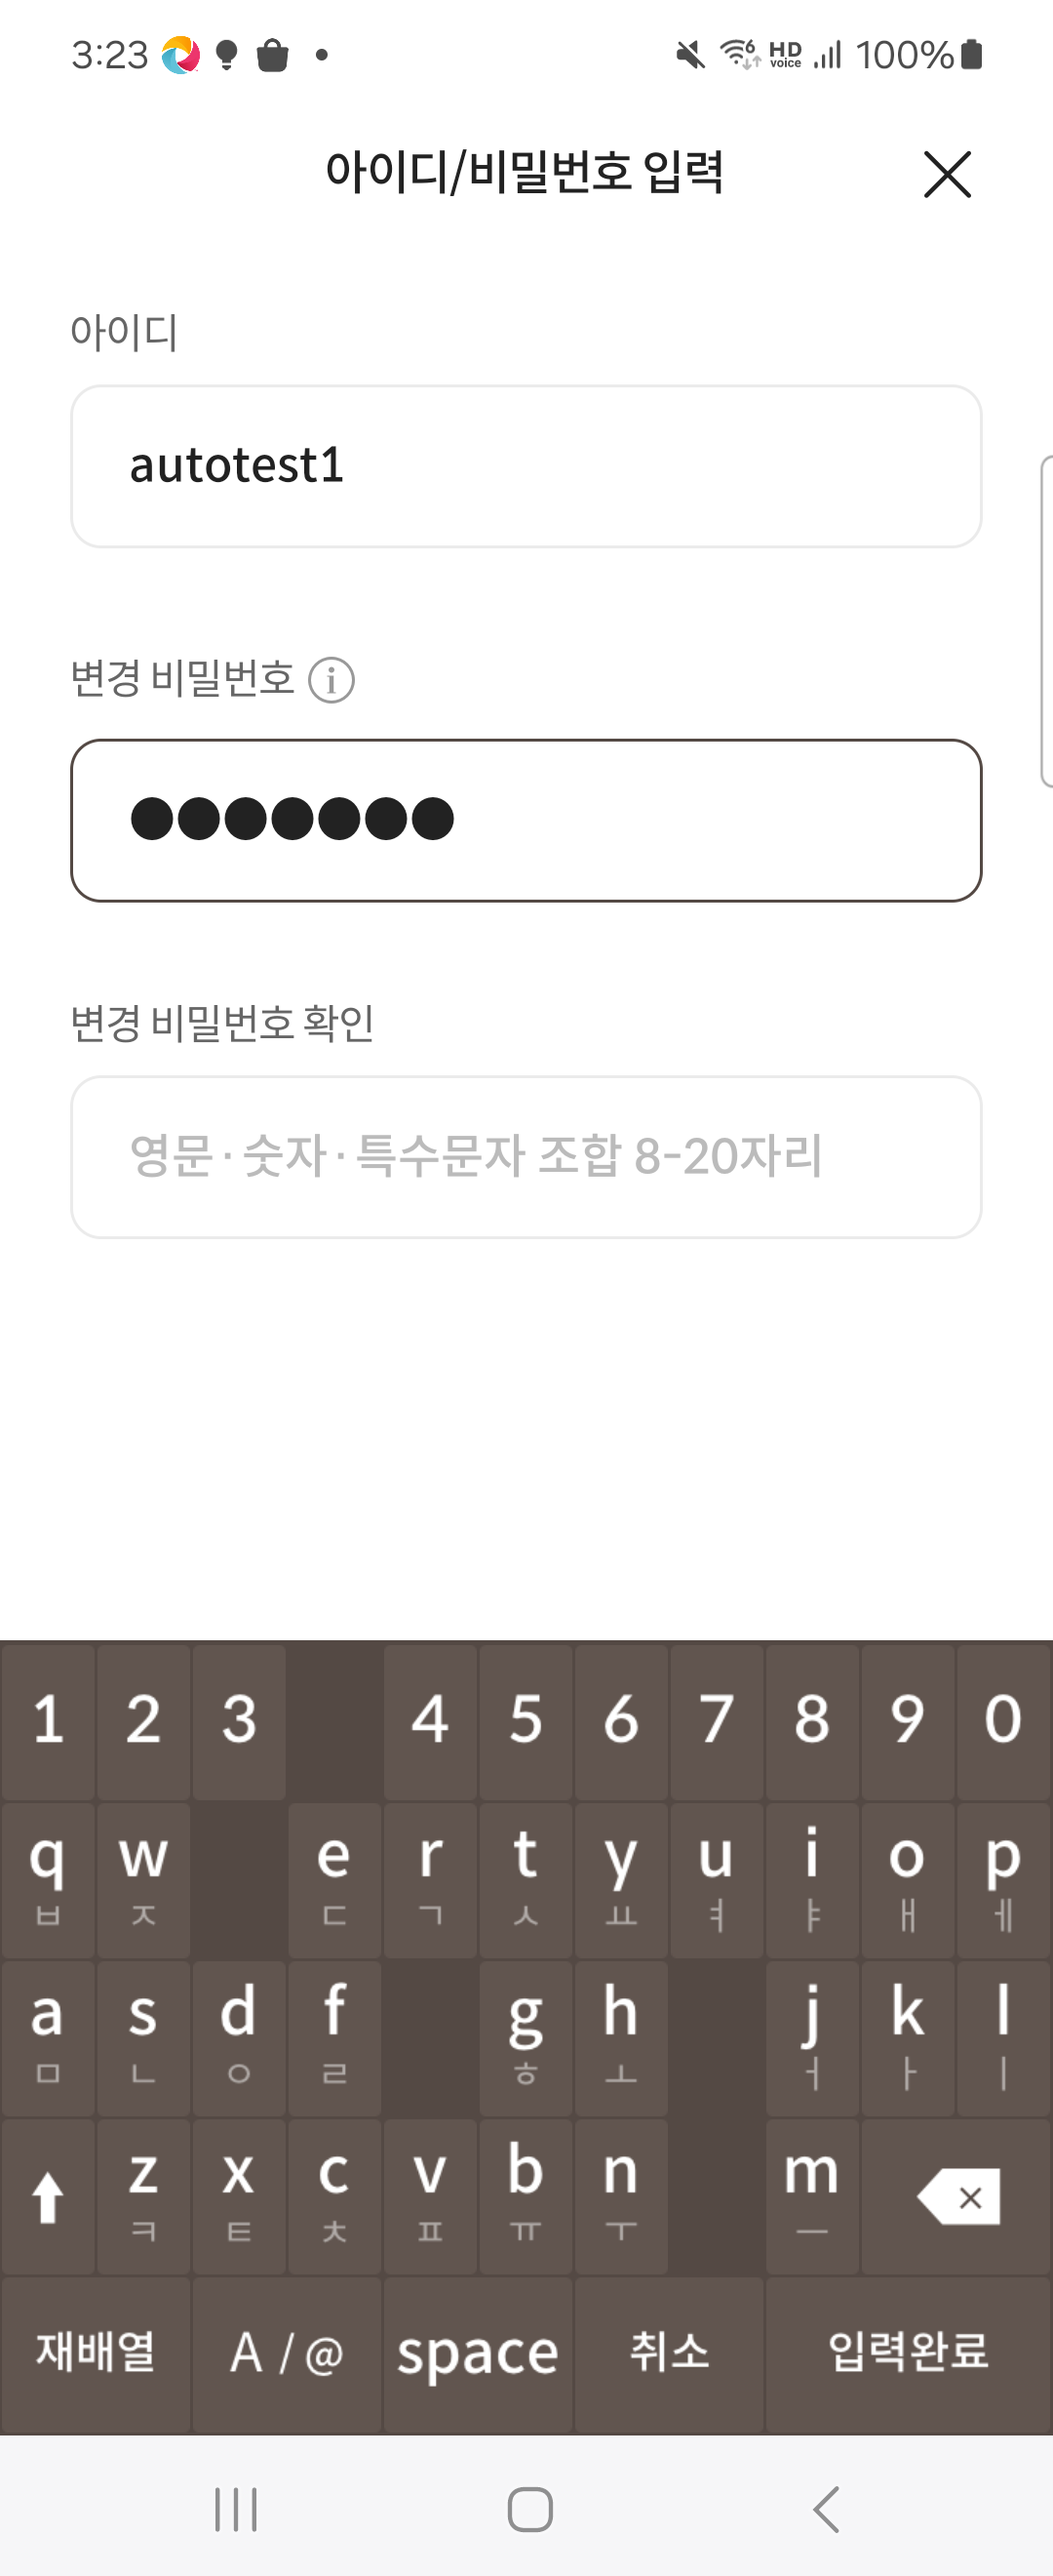
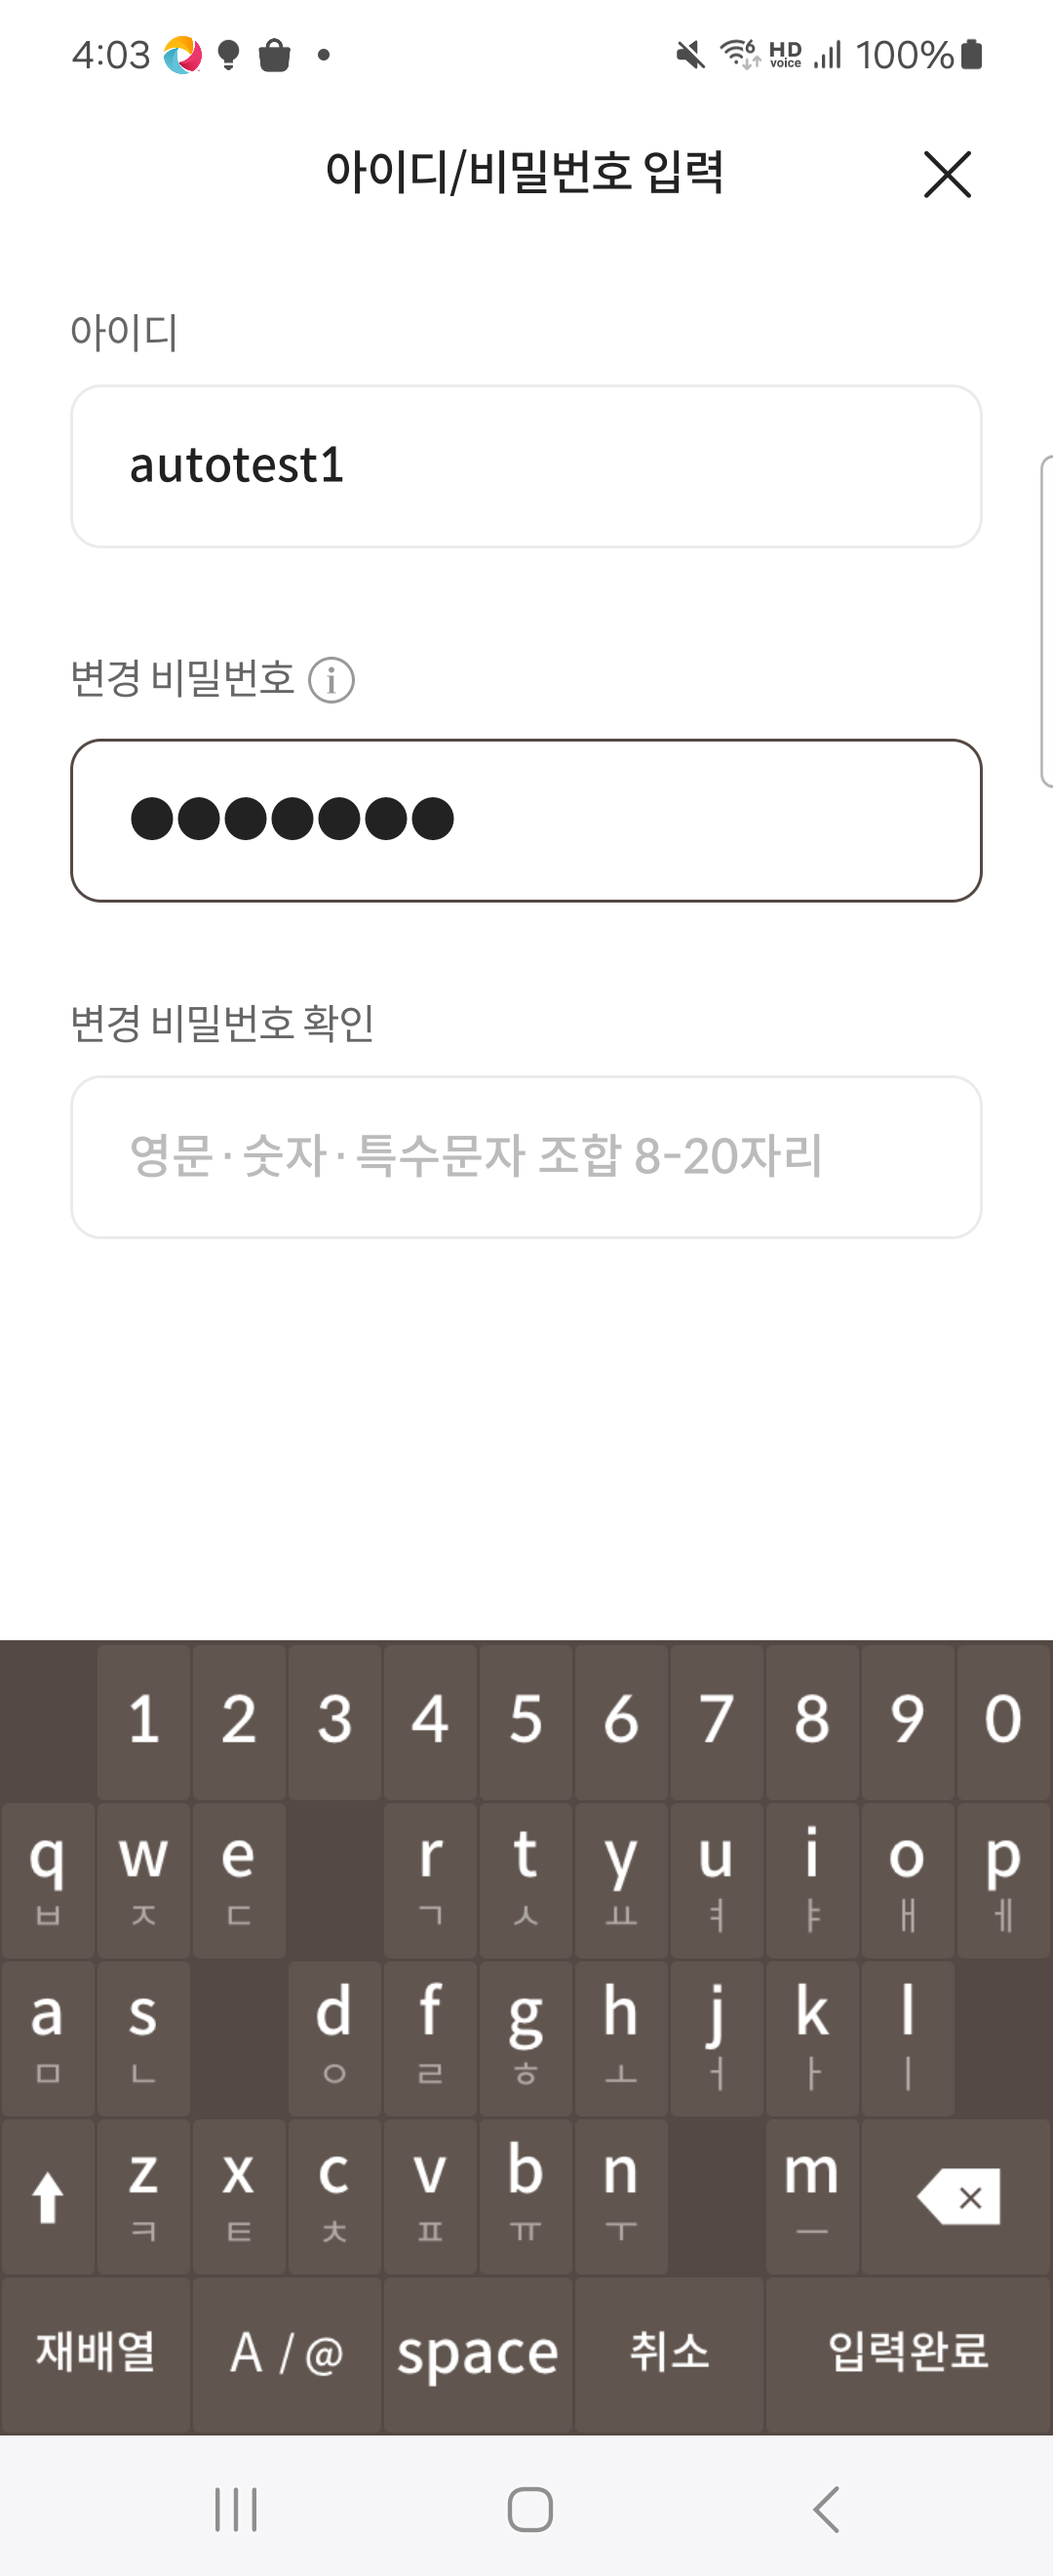
opencv 일부변경

diff --git a/OpenCV.py b/OpenCV.py
@@ -5,6 +5,7 @@ import os
 #import config
 import cv2
 import time, datetime
+import numpy as np
 
 
 from appium import webdriver
@@ -54,24 +55,45 @@ class Matching():
 
         driver.save_screenshot(test_screenshot(test()))
 
-        sourceimage = cv2.imread(test_screenshot(test()), 0)
-        template = cv2.imread(detectImagePath, 0)
+        sourceimage = cv2.imread(test_screenshot(test()))
+        template = cv2.imread(detectImagePath)
 
-        w, h = template.shape[::-1]
+        original_gray=cv2.cvtColor(sourceimage,cv2.COLOR_BGR2GRAY)
+        template_gray=cv2.cvtColor(template, cv2.COLOR_BGR2GRAY)
 
-        method = eval('cv2.TM_CCOEFF_NORMED')
-        res = cv2.matchTemplate(sourceimage, template, method)
-        min_val, max_val, min_loc, max_loc = cv2.minMaxLoc(res)
+        w, h = template_gray.shape[::-1]
+        result=cv2.matchTemplate(original_gray, template_gray, cv2.TM_CCOEFF_NORMED)
 
-        print('max_val: %d' % max_val)
+        # 매칭 결과에서 가장 높은 값을 찾음
+        min_val, max_val, min_loc, max_loc = cv2.minMaxLoc(result)
 
+        # 템플릿의 너비와 높이
+        template_width, template_height = template_gray.shape[::-1]
+
+        # 매칭 결과를 표시할 사각형의 좌상단, 우하단 좌표 계산
         top_left = max_loc
-        bottom_right = (top_left[0] + w, top_left[1] + h)
+        bottom_right = (top_left[0] + template_width, top_left[1] + template_height)
 
-        center = (top_left[0] + int(w/2), top_left[1] + int(h/2))
+        center = (top_left[0] + int(w / 2), top_left[1] + int(h / 2))
 
-        color = (0, 0, 255)
-        cv2.rectangle(sourceimage, top_left, bottom_right, color, thickness=8)
+        # 원본 이미지에 매칭된 영역을 사각형으로 표시
+        cv2.rectangle(sourceimage, top_left, bottom_right, (0, 255, 0), 2)
+
+        # w, h = template.shape[::-1]
+        #
+        # method = eval('cv2.TM_CCOEFF_NORMED')
+        # res = cv2.matchTemplate(sourceimage, template, method)
+        # min_val, max_val, min_loc, max_loc = cv2.minMaxLoc(res)
+        #
+        # print('max_val: %d' % max_val)
+        #
+        # top_left = max_loc
+        # bottom_right = (top_left[0] + w, top_left[1] + h)
+        #
+        # center = (top_left[0] + int(w/2), top_left[1] + int(h/2))
+        #
+        # color = (0, 0, 255)
+        # cv2.rectangle(sourceimage, top_left, bottom_right, color, thickness=8)
 
         detectshotPath = test_screenshot(test())[:-4] + '-detect.png'
         cv2.imwrite(detectshotPath, sourceimage)

diff --git a/common.py b/common.py
@@ -83,15 +83,15 @@ def 아이디비밀번호설정(driver):
     #driver.find_element(By.XPATH,"//android.widget.ImageView[normalize-space(@content-desc)=""q 비읍"")]").click()
     time.sleep(1)
     driver.find_element(By.XPATH,"//android.widget.ImageView[@content-desc=""2""]").click()
-    name = 'w.png'
+    name = 'q.png'
     driver.tap([OpenCV.Matching.detectimage(driver, name)])
     #driver.find_element(By.XPATH,"//android.widget.ImageView[@content-desc=""w 지읃""]").click()
     driver.find_element(By.XPATH,"//android.widget.ImageView[@content-desc=""3""]").click()
-    name = 'e.png'
+    name = 'q.png'
     driver.tap([OpenCV.Matching.detectimage(driver, name)])
     #driver.find_element(By.XPATH,"//android.widget.ImageView[@content-desc=""e 디귿""]").click()
     driver.find_element(By.XPATH,"//android.widget.ImageView[@content-desc=""4""]").click()
-    name = 'r.png'
+    name = 'q.png'
     driver.tap([OpenCV.Matching.detectimage(driver, name)])
     #driver.find_element(By.XPATH,"//android.widget.ImageView[@content-desc=""r 기역""]").click()
     # 비밀번호=["1", "q %s 비읍", "2", "w %s 지읃", "3","e %s 디귿","4","r %s 기역"]
